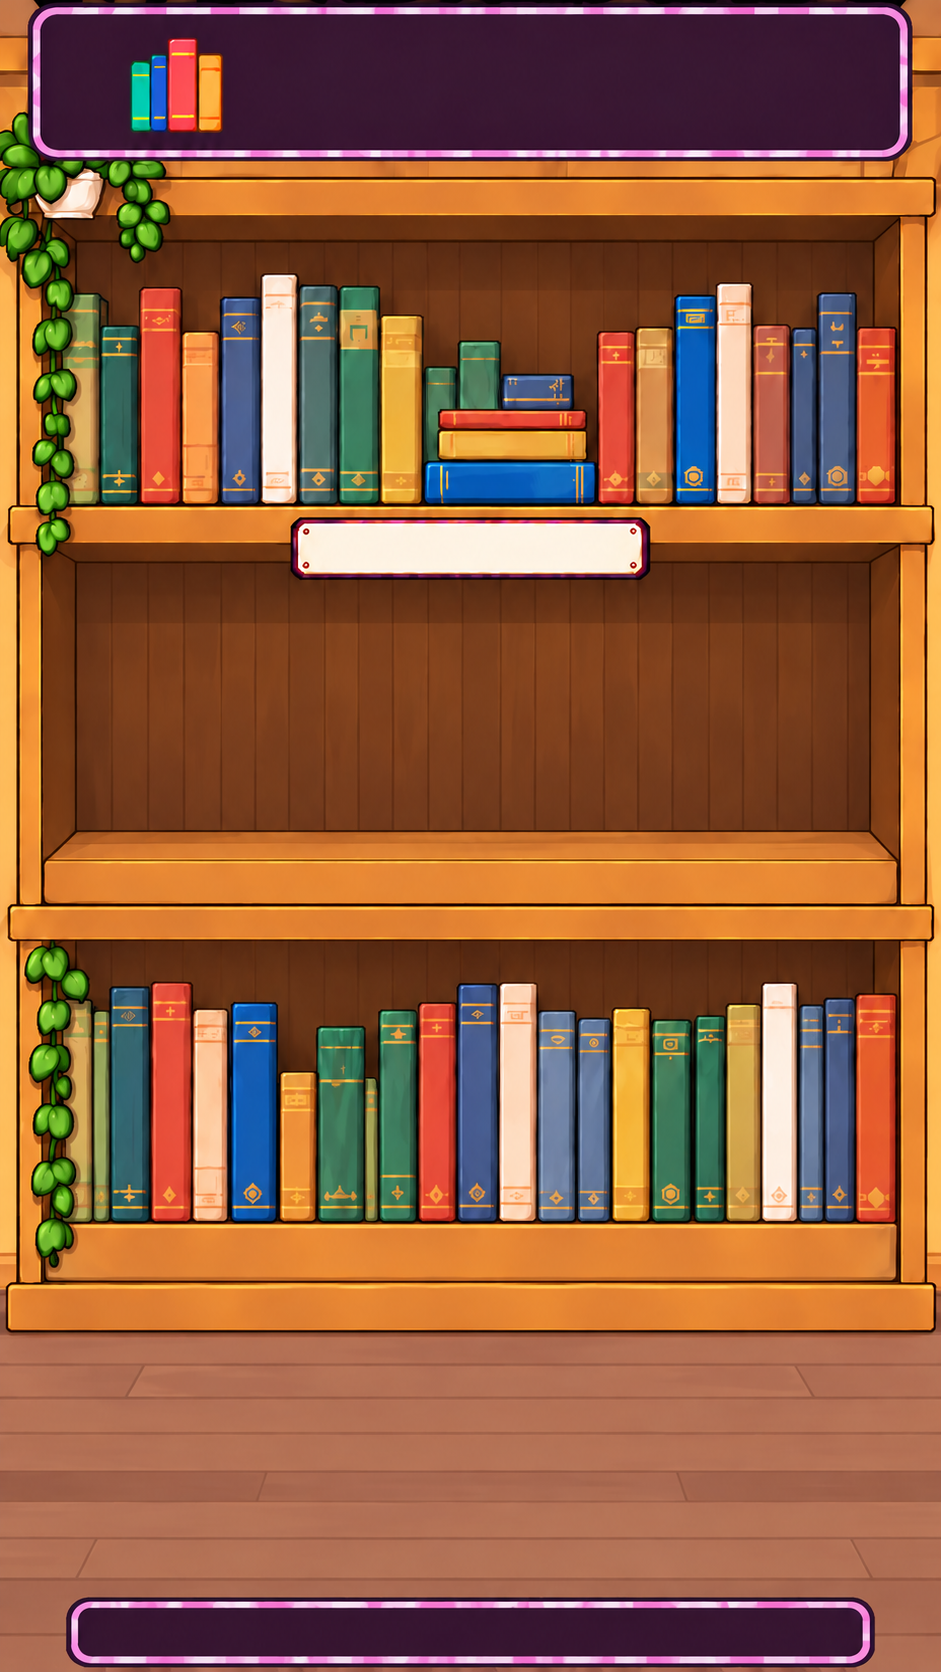
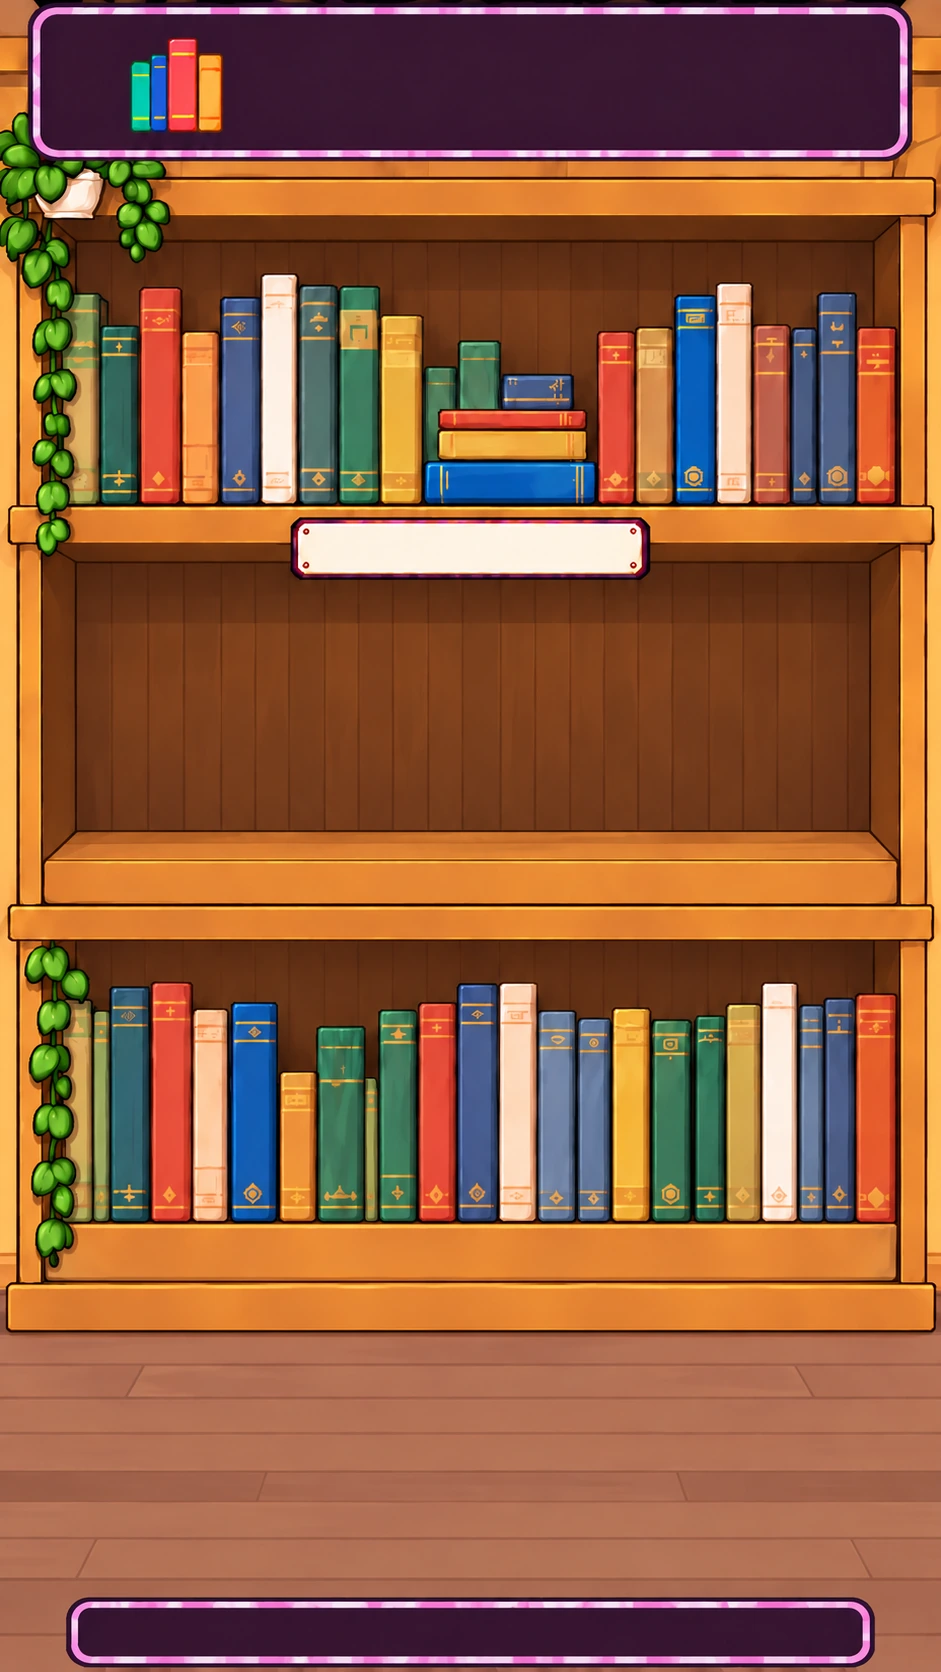
용량 줄이기

diff --git a/assets-loader.js b/assets-loader.js
@@ -27,7 +27,7 @@ export async function loadAssetBundle(mode = "reshelve") {
   const [layout, books, background, bookImage] = await Promise.all([
     readJson("layout.json"), readJson("assets/books-atlas-crisp-v2.json"),
     readImage("assets/library-background.webp", "assets/library-background.png"),
-    readImage("assets/books-atlas-crisp-v2.png")
+    readImage("assets/books-atlas-crisp-v2.webp", "assets/books-atlas-crisp-v2.png")
   ]);
   const bundle = { mode, layout, books, background, bookImage,
     bookFrames: new Map(books.frames.map(frame => [frame.id, frame])) };

diff --git a/README.md b/README.md
@@ -53,10 +53,21 @@ window.addEventListener('bookband:complete', ({ detail }) => {
 
 ## 에셋 및 검증
 
-책은 `assets/books-atlas-crisp-v2.png`와 대응 JSON을 기본으로 로드합니다. 책등의 분류명은 PNG에 포함되어 있으며 코드로 덧쓰지 않습니다. 배경·카트·고양이 손은 기존 WebP와 PNG 대체 파일을 사용합니다.
+책은 새 PNG에서 만든 무손실 `assets/books-atlas-crisp-v2.webp`와 대응 JSON을 기본으로 로드합니다. 책등의 글씨·색상·투명도는 PNG와 동일하며 코드로 글씨를 덧쓰지 않습니다. 배경·카트·고양이 손은 품질 92의 WebP를 사용하며 원래 크기와 alpha를 유지합니다. 모든 PNG는 WebP 로드 실패 시에만 대체 로드합니다.
+
+초기 이미지 다운로드 합계는 3,362,792바이트 → 1,171,420바이트로 약 65.2% 줄었습니다. 이 수치는 HTTP 헤더와 HTML·CSS·JS·JSON을 제외한 실제 요청 이미지 네 장의 원본 파일 크기입니다. 저장소에 PNG 대체 파일이 있어도 정상 로딩에서는 다운로드하지 않습니다.
+
+| 이미지 | 이전 크기 | 적용 크기 |
+| --- | ---: | ---: |
+| 새 책 atlas | PNG 1,165,436 B | 무손실 WebP 797,270 B |
+| 배경 | WebP 1,109,294 B | WebP 138,358 B |
+| 카트 | WebP 420,278 B | WebP 88,002 B |
+| 고양이 손 | WebP 667,784 B | WebP 147,790 B |
 
 Canvas 내부 크기는 CSS 표시 크기 × DPR(1~3)입니다. 매 렌더링에서 좌표 변환을 초기화하고 책만 원본에서 고품질 축소합니다. 배경과 손의 기존 렌더링 방식은 유지합니다. 서가 책 밑면과 클릭·드롭 영역은 baseline 860에 맞췄습니다.
 
 카트의 모든 책은 서가 공통 크기의 0.72배입니다. 눕힌 책은 같은 크기를 90도 회전하며, 더미의 빈자리는 화면 배치만 내려앉혀 채웁니다. 책 id와 저장 배열은 바꾸지 않습니다. 크림빛 실루엣은 카트 책의 조작 가능 여부를 나타내며 정답과 무관합니다. 빛 자체는 클릭되지 않고 앞쪽 금속 프레임은 책과 빛을 함께 가립니다.
 
 360px·390px / DPR 1~3의 Native Canvas 렌더와 모의 터치 Pointer Events를 검증했습니다. 밀어 넣기, 카트 복귀, 취소, 저장 복원, 재시작, 자동 클리어를 검사했고 무작위 이동 30,000회에서 열 권의 중복·누락이 없었습니다. 실제 브라우저는 로컬 서버 연결 시간 초과로 검증하지 못했으며, 실기기 터치 검증도 아직 완료하지 못했습니다.
+
+WebP 압축 적용 후 정상 로딩과 WebP 실패 시 PNG 대체 로딩에서 각각 50개 모의 입력 검사를 통과했습니다. 360px Canvas 렌더를 압축 전후로 비교했고, 책의 보이는 RGBA 픽셀 및 나머지 이미지의 alpha가 압축 전과 일치함을 확인했습니다.
